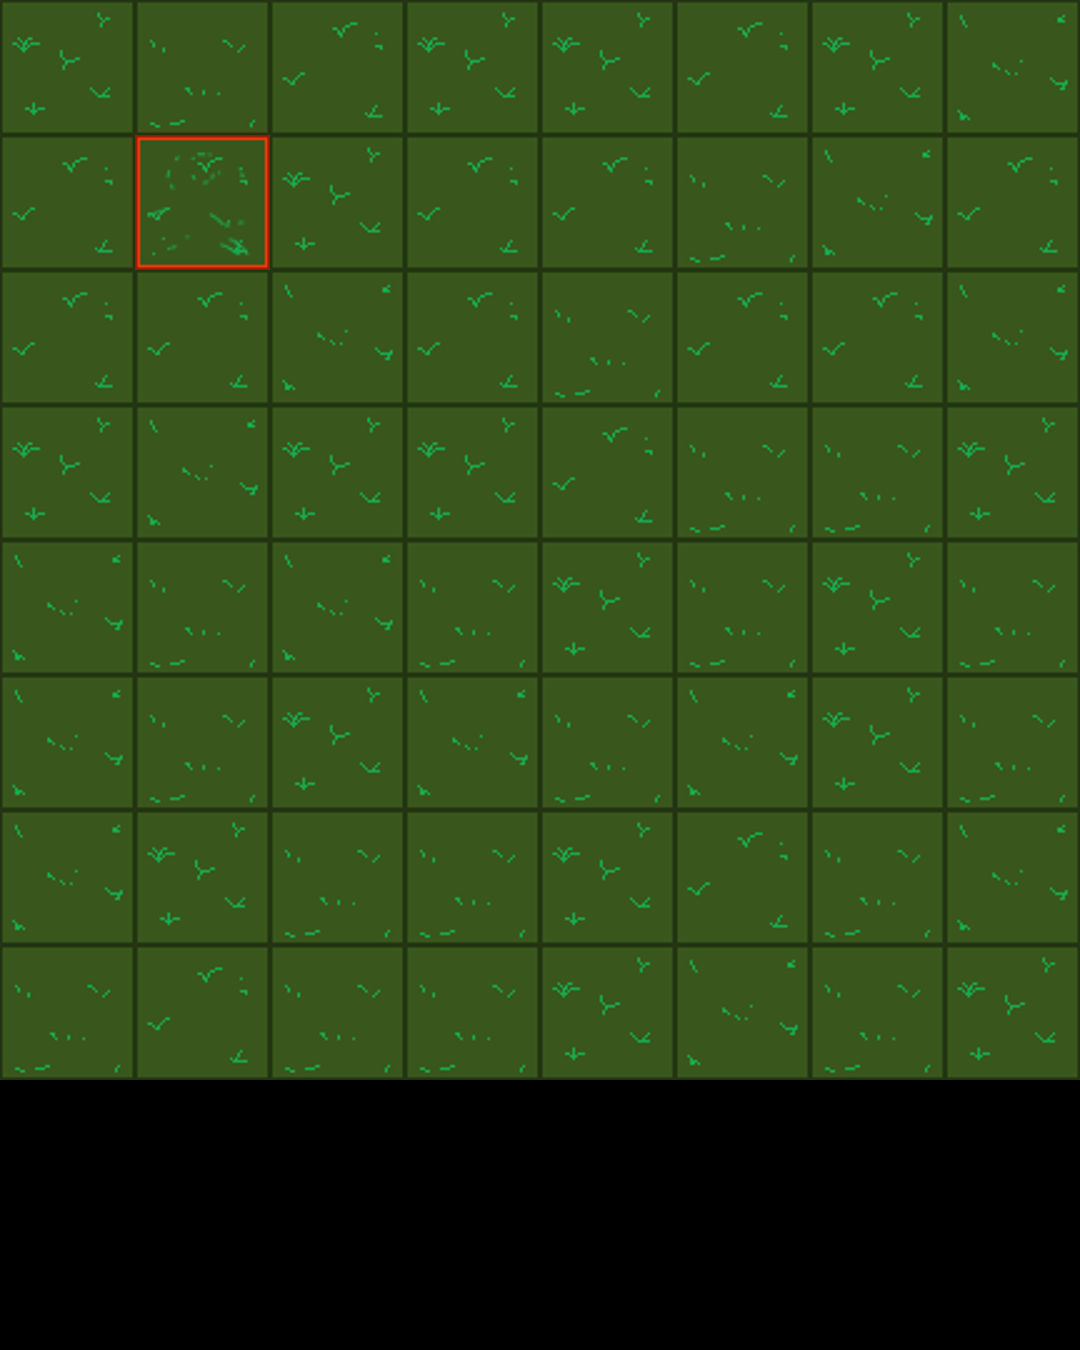
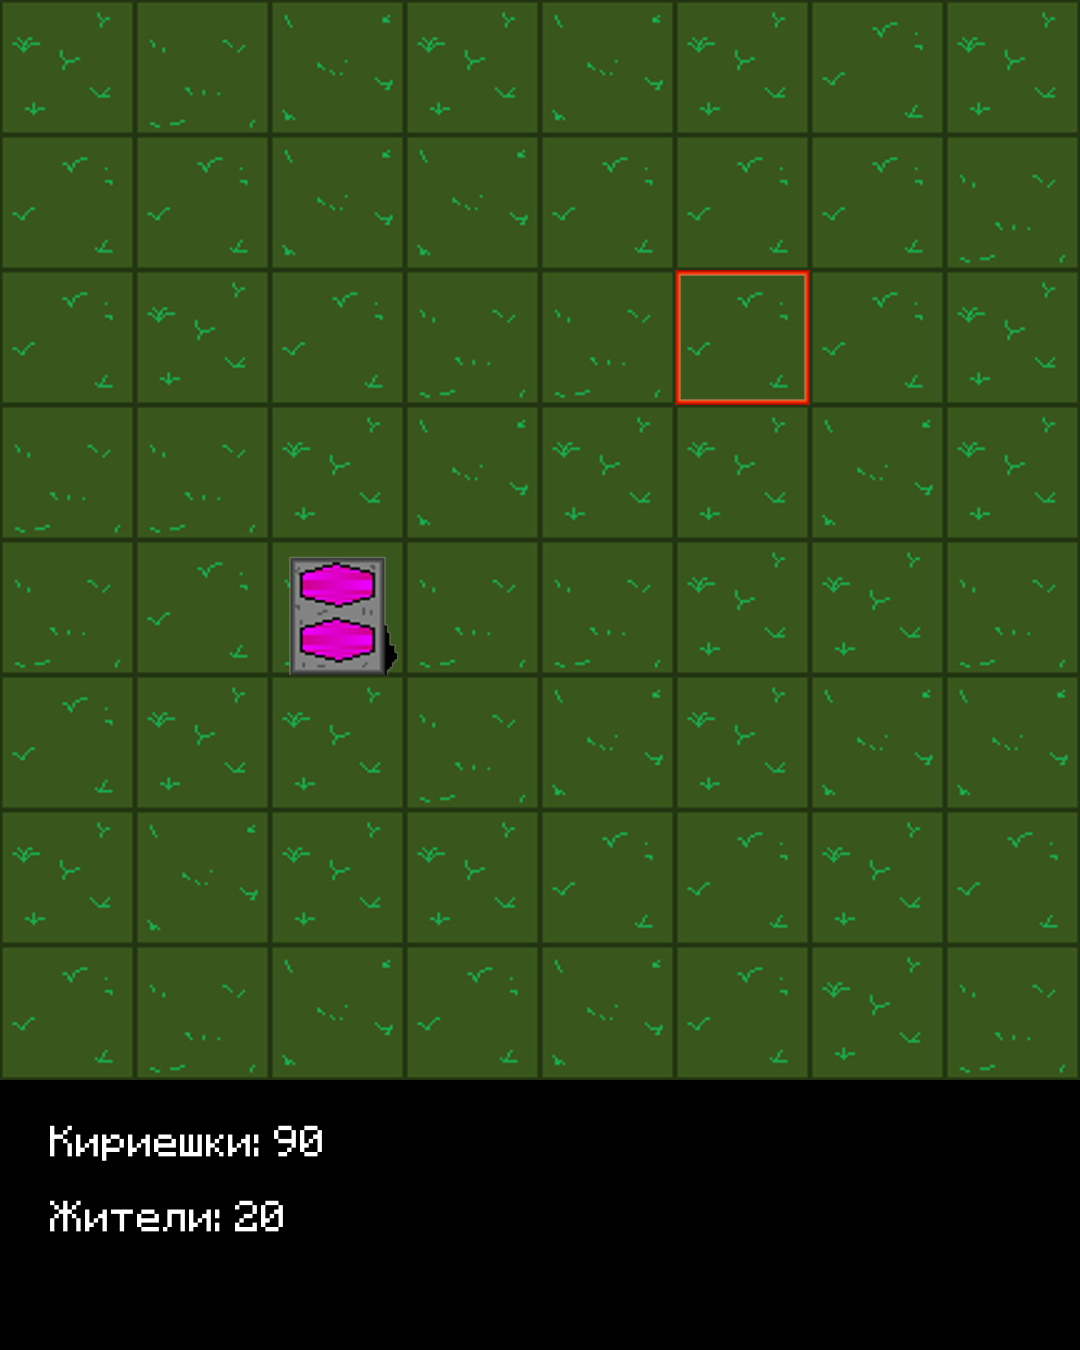
БАГУС СЛУЧИВСЯ

diff --git a/BGEvr/botik.py b/BGEvr/botik.py
@@ -59,50 +59,61 @@ class RunGameBot:
         self.render = Render(self.db,self.user.id)
         self.game_data = self.data_loader.load_game_data()
         self.player = Player(self.user.id,self.db)
-        self.render.render(self.player.progress)
+        self.render.render(self.player.progress, self.user.id)
         self.render.save_pic(self.user.id)
         self.player_view = ViewTG(self.user.id,self.token)
-        self.player_view.send_pic(update=update,callback=CallbackContext)
+        self.player_view.send_pic(update=update,callback=CallbackContext, user_id=self.user.id)
         reply_markup = InlineKeyboardMarkup(self.used_keyboard)
         update.message.reply_text(f"Чё делать будешь? \n {self.txt}",reply_markup=reply_markup)
 
 
 
     def move_button(self,update:Update,context:CallbackContext):
+        update_usage = False
         query = update.callback_query
         query.answer()
         print(query.data)
+        self.player = Player(query.from_user.id, self.db)
         #if query.data == 'mod':
         #    self.txt += ",".join(self.dataloader.load_player_id())
         if query.data == 'next_move':
-            self.player.next_turn()
+            self.player.next_turn(query.from_user.id)
+            update_usage = True
         if query.data == 'build':
             self.used_keyboard = self.build_keyboard
         if query.data == 'main_page':
             self.used_keyboard = self.main_keyboard
         if query.data == 'info':
-            self.txt += self.player.player_info()
+            self.txt += self.player.player_info(query.from_user.id)
         if query.data == 'u':
-            self.player.player_move("u")
+            self.player.player_move("u", query.from_user.id)
+            update_usage = True
         if query.data == 'r':
-            self.player.player_move("r")
+            self.player.player_move("r", query.from_user.id)
+            update_usage = True
         if query.data == 'l':
-            self.player.player_move("l")
+            self.player.player_move("l", query.from_user.id)
+            update_usage = True
         if query.data == 'd':
-            self.player.player_move("d")
+            self.player.player_move("d", query.from_user.id)
+            update_usage = True
         if query.data == 'factory':
-            self.player.build_smth("small_factory")
+            self.player.build_smth("small_factory", query.from_user.id)
+            update_usage = True
             self.txt += f'Вы протратили много кириешек,зайдите в статистику для того, чтобы узнать сколько у вас осталось'
         if query.data == 'house_lvl_1':
-            self.player.build_smth("small_house")
+            self.player.build_smth("small_house", query.from_user.id)
+            update_usage = True
             self.txt += f'Вы протратили очень много кириешек,зайдите в статистику для того, чтобы узнать сколько у вас осталось'
         if query.data == 'bank':
-            self.player.build_smth("small_shop")
+            self.player.build_smth("small_shop", query.from_user.id)
+            update_usage = True
             self.txt += f'Вы протратили достаточно кириешек,зайдите в статистику для того, чтобы узнать сколько у вас осталось'
         #self.player.next_turn()
-        self.render.render(self.player.progress)
-        self.render.save_pic(self.user.id)
-        self.player_view.send_pic(Update,CallbackContext)
+        self.render.render(self.player.progress, query.from_user.id)
+        self.render.save_pic(query.from_user.id)
+        if update_usage:
+            self.player_view.send_pic(Update,CallbackContext, query.from_user.id)
         #REQUEST = f"""var_1 = {...},var_2 = {...}"""
         get_request = f"""updated={int(datetime.now().timestamp())},pos_x = {self.player.player_pos_x},pos_y = {self.player.player_pos_y}"""
         self.db.update("user_info",get_request,self.user.id)

diff --git a/BGEvr/Model/player.py b/BGEvr/Model/player.py
@@ -18,9 +18,13 @@ class Player:
         self.pay_for_turn = len(t.split(","))
         #print(self.pay_for_turn)
 
+    def player_move(self,move, user_id):
+        self.player_pos_x = self.db.select_by_user_id("user_info", user_id)[0][0]
+        self.player_pos_y = self.db.select_by_user_id("user_info", user_id)[0][1]
+        self.player_money = self.db.select_by_user_id("user_info", user_id)[0][8]
+        self.player_units = self.db.select_by_user_id("user_info", user_id)[0][2]
+        self.progress = {"x": self.player_pos_x, "y": self.player_pos_y}
 
-
-    def player_move(self,move):
         #print(len(self.progress["map_data"][0]))
         """self.progress = self.dataloader.load_user_data()
         if move == 'u' and self.progress["player_position"][1] > 0:
@@ -47,7 +51,15 @@ class Player:
         self.db.update("user_info",move_request,self.user_id)
         
     
-    def next_turn(self):
+    def next_turn(self, user_id):
+        self.player_pos_x = self.db.select_by_user_id("user_info", user_id)[0][0]
+        self.player_pos_y = self.db.select_by_user_id("user_info", user_id)[0][1]
+        self.player_money = self.db.select_by_user_id("user_info", user_id)[0][8]
+        self.player_units = self.db.select_by_user_id("user_info", user_id)[0][2]
+        self.player_money = self.db.select_by_user_id("user_info", user_id)[0][8]
+        self.player_units = self.db.select_by_user_id("user_info", user_id)[0][2]
+        self.progress = {"x": self.player_pos_x, "y": self.player_pos_y}
+
         houses_data = {
             "small_house": [0, 10],
             "small_factory": [10, 0]
@@ -58,13 +70,10 @@ class Player:
                           target_session_attrs="read-write")
         self.db.connect()
 
-        user_houses = self.db.select_by_user_id("user_info", self.user_id)[0][3]
+        user_houses = self.db.select_by_user_id("user_info", user_id)[0][3]
         if user_houses == "no_buildings":
             return
         user_houses = list(map(int, user_houses.split(',')))
-
-        self.player_money = self.db.select_by_user_id("user_info", self.user_id)[0][8]
-        self.player_units = self.db.select_by_user_id("user_info", self.user_id)[0][2]
 
         for i in user_houses:
             house = self.db.select_by_house_id(table="houses", house_id=i)[0][0]
@@ -73,13 +82,13 @@ class Player:
             self.player_units += houses_data[house][1]
 
         req = f"""money = {self.player_money},units = {self.player_units}"""
-        self.db.update("user_info", req, id=self.user_id)
+        self.db.update("user_info", req, id=user_id)
 
     
-    def build_smth(self,buiding):
+    def build_smth(self,buiding, user_id):
         self.game.create_house(buiding,[self.progress["x"],self.progress["y"]])
 
-    def player_info(self):
+    def player_info(self, user_id):
         self.player_money = self.db.select_by_user_id("user_info",self.user_id)[0][8]
         self.player_units = self.db.select_by_user_id("user_info",self.user_id)[0][2]
         return f"Ваши кириешки, Милорд - {self.player_money}\nКоличество ваших жителей, Милорд - {self.player_units}"

diff --git a/BGEvr/Controller/gameplay_manager.py b/BGEvr/Controller/gameplay_manager.py
@@ -2,7 +2,7 @@ from Controller.Data_loader import Data
 from View import render
 from PIL import Image
 from database_adapter import *
-
+import json
 class Game():
     def __init__(self, user_id,db,player):
         self.player = player
@@ -15,6 +15,13 @@ class Game():
     def create_house(self, name, position):
         _building = self.building_data["buildings"][name]
         #_map = self.user_data["map_data"]
+
+
+
+        with open("resources.json", encoding="utf-8") as f:
+            house_res = json.load(f)
+
+
 
         map_posing = []
         for i in range(_building["size"]):

diff --git a/BGEvr/View/ViewTG.py b/BGEvr/View/ViewTG.py
@@ -10,8 +10,9 @@ class ViewTG():
         self.message = None
         self.file_size = None
         self._first_pic = True
-    def send_pic(self,update:Update,callback:CallbackContext):
+    def send_pic(self,update:Update,callback:CallbackContext, user_id):
         bot = Bot(self.bot_id)
+        self.user_id = user_id
         try:
             if self._first_pic:
                 self.message = bot.send_photo(self.user_id,photo=open(f'players_images/{self.user_id}.png','rb'))

diff --git a/BGEvr/View/render.py b/BGEvr/View/render.py
@@ -8,8 +8,9 @@ class Render:
         self.db = db
         self.user_id = user_id
 
-    def render(self, data):
-        self.user_data = self.db.select_by_user_id("user_info", self.user_id)[0]
+    def render(self, data, user_id):
+
+        self.user_data = self.db.select_by_user_id("user_info", user_id)[0]
         self._map = Image.new(mode="RGBA", size=(1080, 1350), color=(0,0,0))
 
         _map_size = 8 #data["map_size"]
